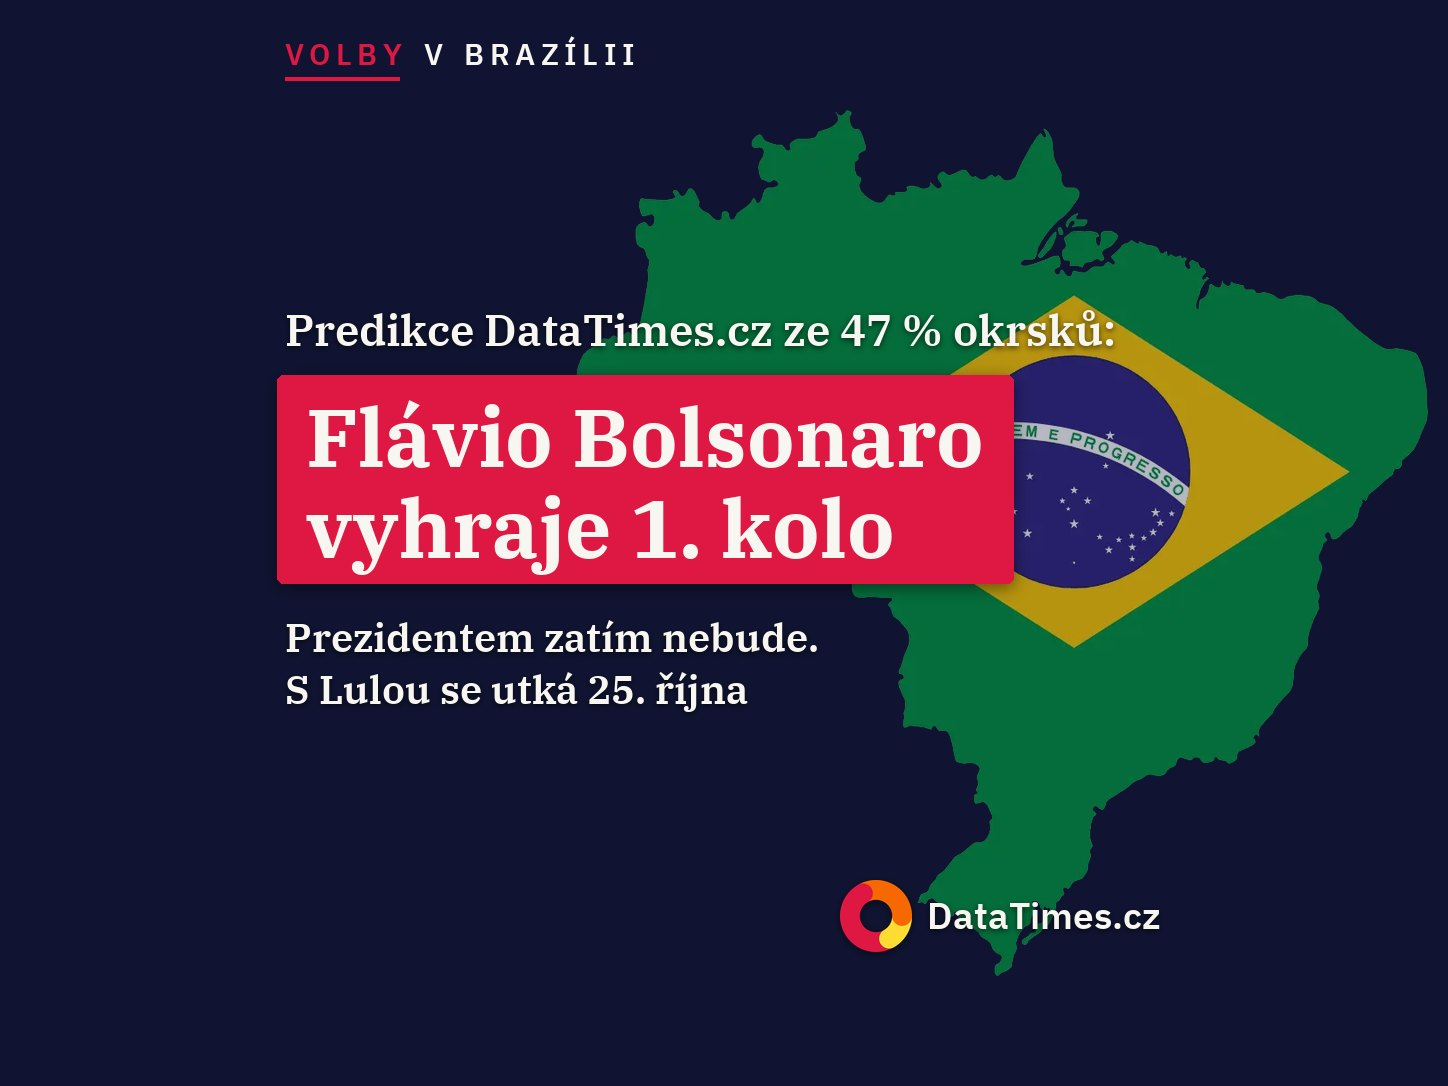
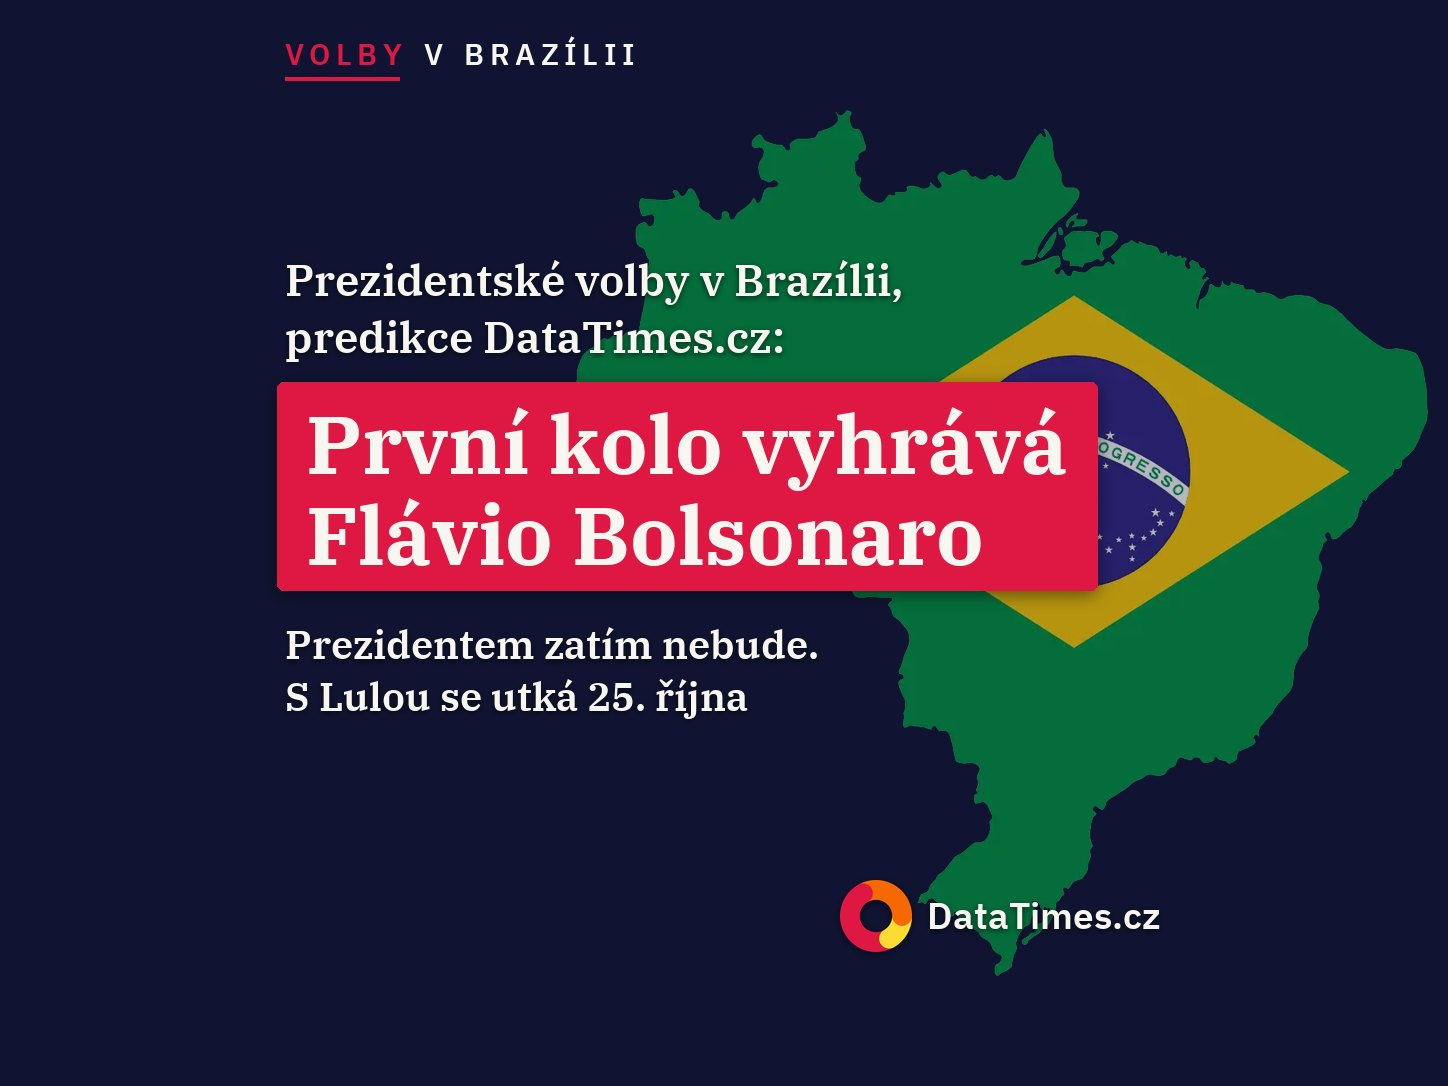
content(volby Brazílie 2026): titulek „První kolo vyhrává Bolsonaro“, kontext Lula jako favorit před 1. kolem, nový cover

Changed region(s): [[0.1865, 0.2431, 0.7769, 0.5773], [0.1865, 0.5773, 0.5594, 0.6685]]

diff --git a/apps/web/app/clanek/_articles/volby-brazilie-2026-10-05-flavio-bolsonaro-vyhraje-prvni-kolo/index.md b/apps/web/app/clanek/_articles/volby-brazilie-2026-10-05-flavio-bolsonaro-vyhraje-prvni-kolo/index.md
@@ -1,16 +1,16 @@
 ---
-title: "První kolo v Brazílii vyhraje Flávio Bolsonaro. Prezidentem ale zatím nebude, ukazuje naše predikce"
+title: "Prezidentské volby v Brazílii: První kolo vyhrává Bolsonaro, ukazuje predikce"
 date: "2026-10-05"
 time: "00:33"
 author: "Kateřina Mahdalová & Michal Škop"
-excerpt: "Průběžné sčítání ukazovalo, že syn vězněného exprezidenta vyhraje rovnou v prvním kole. Predikce DataTimes.cz ale od prvního milionu sečtených hlasů říká: Flávio Bolsonaro skončí první se 47 procenty, Lula druhý s 45 procenty – a o prezidentovi rozhodne až druhé kolo 25. října."
+excerpt: "Do voleb šel jako mírný favorit prezident Lula, všechny velké průzkumy ho viděly v prvním kole v čele. Predikce DataTimes.cz ale od prvního milionu sečtených hlasů říká: Flávio Bolsonaro skončí první se 47 procenty, Lula druhý s 45 procenty – a o prezidentovi rozhodne až druhé kolo 25. října."
 coverImage: "images/cover-homepage.jpg"
 ogImage: "images/cover-og.jpg"
 filter: ["analýza"]
 tags: ["volby", "Brazílie", "Flávio Bolsonaro", "Lula", "Jair Bolsonaro", "Latinská Amerika", "volební predikce"]
 promoted: 1
 ---
-Brazílie v neděli 4. října volila prezidenta a první kolo vyhraje Flávio Bolsonaro, pětačtyřicetiletý senátor a nejstarší syn vězněného exprezidenta Jaira Bolsonara. Ukazuje to datová predikce dvojice novinářů Mahdalová & Škop, která ho drží v čele od chvíle, kdy byl sečtený necelý milion hlasů. Na vítězství už v prvním kole to ale stačit nebude: model mu po sečtení zhruba 72 procent hlasů přisuzuje 47,0 procenta platných hlasů, úřadujícímu prezidentovi Luizi Ináciu Lulovi da Silvovi 45,2 procenta. Oba se tak 25. října potkají ve druhém kole.
+Brazílie v neděli 4. října volila prezidenta a první kolo vyhrává Flávio Bolsonaro, pětačtyřicetiletý senátor a nejstarší syn vězněného exprezidenta Jaira Bolsonara. Do voleb přitom šel jako mírný favorit úřadující prezident Lula. Ukazuje to datová predikce dvojice novinářů Mahdalová & Škop, která ho drží v čele od chvíle, kdy byl sečtený necelý milion hlasů. Na vítězství už v prvním kole to ale stačit nebude: model mu po sečtení zhruba 72 procent hlasů přisuzuje 47,0 procenta platných hlasů, úřadujícímu prezidentovi Luizi Ináciu Lulovi da Silvovi 45,2 procenta. Oba se tak 25. října potkají ve druhém kole.
 
 <KeyNumbers yamlFile="key-stats.yaml" />
 
@@ -18,9 +18,19 @@ Brazílie v neděli 4. října volila prezidenta a první kolo vyhraje Flávio B
 Predikci jsme přepočítávali každou minutu od 22:21 do 00:19 SELČ (17:21–19:19 brasilijského času) z průběžných dat brazilského Nejvyššího volebního soudu (TSE). Interval nejistoty a srovnání s průběžným součtem uvádíme ze stavu ve 23:44 SELČ, kdy bylo podle TSE sečteno 47,26 procenta okrsků. Oficiální konečný výsledek v době vydání textu ještě není k dispozici.
 ```
 
-Průběžné číslo přitom v tu chvíli vyprávělo jiný příběh. Flávio Bolsonaro měl v sečtených hlasech 50,20 procenta, tedy víc, než kolik potřebuje k vítězství bez druhého kola, a Lula jen 41,63 procenta ([Wikipedia](https://en.wikipedia.org/wiki/2026_Brazilian_general_election), [Latin Times](https://www.latintimes.com/live-lula-vs-flavio-bolsonaro-what-tonights-first-round-results-brazil-could-mean-oct-25-599811)). Rozdíl téměř devíti bodů a 4,7 milionu hlasů. Kdo by se díval jen na průběžný součet, mohl by Flávia Bolsonara vyhlásit prezidentem už v neděli večer.
+## Favoritem prvního kola byl Lula
+
+Ještě v sobotu vedl Lula ve všech velkých průzkumech pro první kolo. Datafolha mu v posledním šetření dávala 45 procent platných hlasů proti 42 pro Flávia Bolsonara, Quaest 46 proti 45 ([The Rio Times](https://www.riotimesonline.com/brazil-final-polls-before-the-vote-lula-flavio-datafolha-quaest-2026/)), AtlasIntel 46,2 proti 43,1 procenta ([The Rio Times](https://www.riotimesonline.com/brazil-election-2026-atlasintel-poll-lula-leads-first-round-runoff-tie/)). Newsweek v den voleb shrnul, že Lula „vede ve všech velkých průzkumech pro první kolo“, k vítězství bez druhého kola má ale daleko ([Newsweek](https://www.newsweek.com/trump-ally-bolsonaro-vs-lula-final-polls-as-brazil-votes-for-president-12519169)).
 
 <RelatedArticles preset="sidebar" position="right" slugs={["volby-nemecko-2026-09-20-cdu-meklenbursko"]} heading="🔻🔻🔻" />
+
+Lulův náskok se ovšem celý rok zmenšoval. V březnu ho AtlasIntel měřil na 45,9 ku 40,1 procenta a Quaest na 39 ku 32, koncem srpna už měly všechny velké agentury druhé kolo v rámci statistické chyby ([The Rio Times](https://www.riotimesonline.com/brazil-election-poll-tracker-2026/)). Stejně to viděly sázkové trhy: na platformě Kalshi měl Lula 2. října 74procentní šanci, že skončí v prvním kole první, prezidentem se ale podle nich spíš stane Flávio Bolsonaro (57 ku 44 procentům) – díky voličům menších pravicových kandidátů ve druhém kole ([Kalshi](https://news.kalshi.com/p/brazil-election-odds-2026)).
+
+Opatrnost vůči průzkumům měla svůj důvod. Před čtyřmi lety Datafolha den před prvním kolem dávala Jairu Bolsonarovi 34 procent všech hlasů, dostal 41,3 procenta ([Wikipedia](https://en.wikipedia.org/wiki/Opinion_polling_for_the_2022_Brazilian_presidential_election)). Na možné překvapení upozorňoval před hlasováním i Christopher Sabatini z londýnského think-tanku Chatham House ([Newsweek](https://www.newsweek.com/trump-ally-bolsonaro-vs-lula-final-polls-as-brazil-votes-for-president-12519169)).
+
+## Průběžné sčítání slibovalo víc, než bude
+
+Průběžné číslo přitom večer vyprávělo opačný příběh než průzkumy. Ve 23:44 SELČ měl Flávio Bolsonaro v sečtených hlasech 50,20 procenta, tedy víc, než kolik potřebuje k vítězství bez druhého kola, a Lula jen 41,63 procenta ([Wikipedia](https://en.wikipedia.org/wiki/2026_Brazilian_general_election), [Latin Times](https://www.latintimes.com/live-lula-vs-flavio-bolsonaro-what-tonights-first-round-results-brazil-could-mean-oct-25-599811)). Rozdíl téměř devíti bodů a 4,7 milionu hlasů. Kdo by se díval jen na průběžný součet, mohl by Flávia Bolsonara vyhlásit prezidentem už v neděli večer.
 
 Predikce DataTimes.cz ale počítá i s hlasy, které v tu chvíli ještě sečtené nebyly – a těch byla víc než polovina. Podle modelu Flávio Bolsonaro skončí na 47,01 procenta a ani na horní hraně intervalu nejistoty (47,32 procenta) se k padesáti procentům nepřiblíží. Lula naopak naroste o necelé čtyři body na 45,22 procenta. Pořadí se ale nezmění: i nejhorší odhad pro Flávia (46,70 procenta) je vyšší než nejlepší odhad pro Lulu (45,53 procenta).
 
@@ -42,9 +52,7 @@ Proto Flávio Bolsonaro v průběžném součtu od začátku večera klesal: př
 
 <SupportBanner float="left" />
 
-Predikce zároveň opravuje i opačný omyl – ten z předvolebních průzkumů. Všechny tři velké agentury, které zveřejnily průzkum na poslední chvíli, čekaly v prvním kole v čele Lulu. Datafolha mu dávala 45 procent proti 42 pro Flávia Bolsonara, Quaest 46 proti 45 ([The Rio Times](https://www.riotimesonline.com/brazil-final-polls-before-the-vote-lula-flavio-datafolha-quaest-2026/)), AtlasIntel dokonce 46,2 proti 43,1 procenta ([The Rio Times](https://www.riotimesonline.com/brazil-election-2026-atlasintel-poll-lula-leads-first-round-runoff-tie/)).
-
-Podle predikce průzkumy podcenily Flávia Bolsonara o dva až pět procentních bodů. U Luly se vešly do své statistické chyby.
+Predikce tak opravuje oba omyly najednou: průběžné sčítání Flávia Bolsonara přeceňuje, předvolební průzkumy ho podcenily. Podle predikce o dva až pět procentních bodů – podobně jako před čtyřmi lety jeho otce. U Luly se průzkumy vešly do své statistické chyby.
 
 <BrazilRunoffDots />
 
